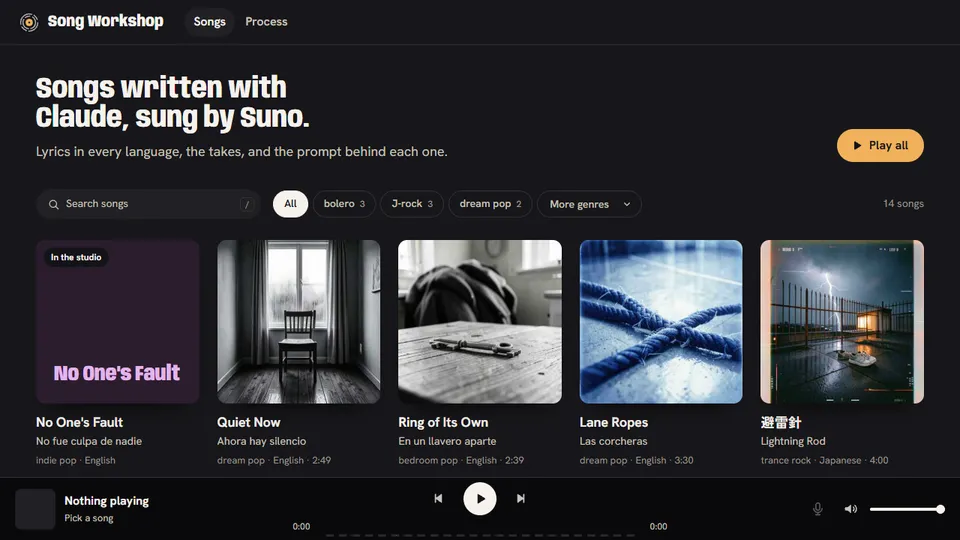
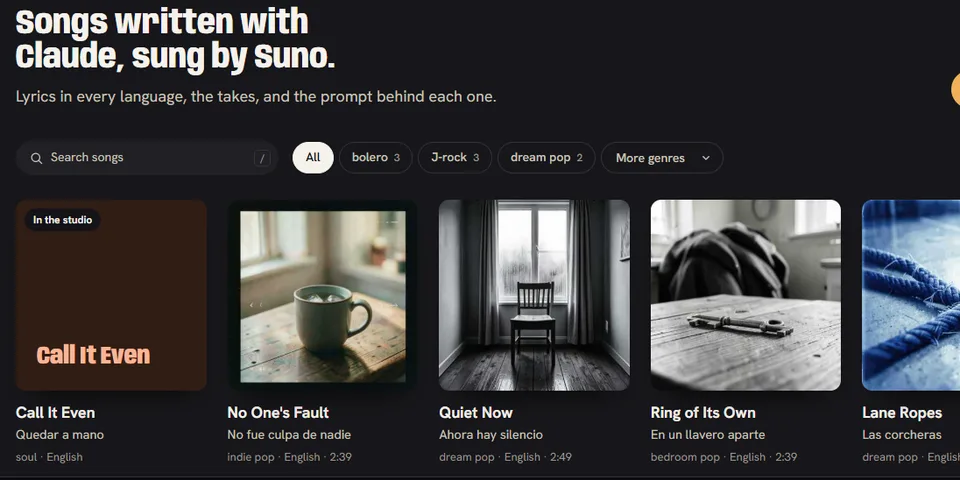
refactor(projects): calmer list view and a closed tag vocabulary
List rows drop the repeated badges and get a larger thumbnail, a bigger
title, two lines of description and a single meta line (year and stack).
Project tags are now technologies from src/utils/projectTags.ts, at most
five per project, enforced by a test (30 tags down to 17). Song Workshop
gets its new front page as the thumbnail.

diff --git a/src/components/react/ProjectRow.tsx b/src/components/react/ProjectRow.tsx
@@ -1,5 +1,5 @@
 import React from "react";
-import { getProjectLinks, PlayIcon, ProjectLinkButtons } from "./ProjectLinks";
+import { getProjectLinks, ProjectLinkButtons } from "./ProjectLinks";
 import type { ProjectCardLabels } from "./ProjectCard";
 
 interface ProjectRowProps {
@@ -10,14 +10,15 @@ interface ProjectRowProps {
     demo?: string;
     image?: string | { src: string; width: number; height: number };
     year?: number;
-    featured?: boolean;
     inProgress?: boolean;
     labels: ProjectCardLabels;
 }
 
-const MAX_TAGS = 3;
-
-/** Compact list row: built for scanning many projects at once. */
+/**
+ * List row: thumbnail, title, two lines of description and a quiet meta line.
+ * Badges are left to the gallery; here the buttons on the right already say
+ * whether there is a demo, so nothing is repeated.
+ */
 export const ProjectRow: React.FC<ProjectRowProps> = ({
     title,
     description,
@@ -26,13 +27,12 @@ export const ProjectRow: React.FC<ProjectRowProps> = ({
     demo,
     image,
     year,
-    featured,
     inProgress,
     labels,
 }) => {
     const links = inProgress ? [] : getProjectLinks(labels, link, demo);
     const primary = links[0]?.href;
-    const extraTags = tags.length - MAX_TAGS;
+    const meta = [year, ...tags].filter(Boolean).join("  ·  ");
 
     const handleRowClick = (e: React.MouseEvent<HTMLElement>) => {
         if (!primary) return;
@@ -44,85 +44,49 @@ export const ProjectRow: React.FC<ProjectRowProps> = ({
     return (
         <article
             onClick={handleRowClick}
-            className={`group grid grid-cols-[1fr_auto] lg:grid-cols-[6rem_minmax(0,1fr)_16rem_2.5rem_5.25rem] items-center gap-x-5 gap-y-3 px-4 py-4 lg:px-5 rounded-xl transition-colors duration-200 ${
-                primary ? "cursor-pointer hover:bg-white/[0.03]" : "opacity-70"
+            className={`group grid grid-cols-[minmax(0,1fr)_auto] sm:grid-cols-[auto_minmax(0,1fr)_auto] items-center gap-x-6 gap-y-3 p-4 sm:p-5 rounded-xl transition-colors duration-200 ${
+                primary ? "cursor-pointer hover:bg-white/[0.03]" : ""
             }`}
         >
             {/* Thumbnail */}
-            <div className="hidden lg:block w-24 h-14 rounded-lg overflow-hidden bg-charcoal border border-white/5">
+            <div className="hidden sm:block w-40 md:w-48 aspect-[2/1] rounded-lg overflow-hidden bg-charcoal border border-white/5">
                 {image && (
                     <img
                         src={typeof image === "string" ? image : image.src}
                         alt=""
-                        className="w-full h-full object-cover motion-safe:transition-transform motion-safe:duration-500 motion-safe:group-hover:scale-110"
+                        className={`w-full h-full object-cover motion-safe:transition-transform motion-safe:duration-500 motion-safe:group-hover:scale-105 ${inProgress ? "opacity-50" : ""}`}
                         loading="lazy"
                         decoding="async"
                     />
                 )}
             </div>
 
-            {/* Title + description */}
+            {/* Text */}
             <div className="min-w-0">
-                <div className="flex items-center gap-2 flex-wrap">
+                <div className="flex items-center gap-2.5 flex-wrap">
                     <h3
-                        className={`font-heading font-bold text-light text-base transition-colors ${primary ? "group-hover:text-moon" : ""}`}
+                        className={`font-heading font-bold text-lg transition-colors ${primary ? "text-light group-hover:text-moon" : "text-light/70"}`}
                     >
                         {title}
                     </h3>
-                    {featured && !inProgress && (
-                        <span
-                            className="w-1.5 h-1.5 rounded-full bg-moon shadow-[0_0_8px_var(--color-moon)]"
-                            title={labels.featured}
-                            aria-label={labels.featured}
-                            role="img"
-                        />
-                    )}
-                    {demo && !inProgress && (
-                        <span className="inline-flex items-center gap-1 px-1.5 py-0.5 rounded border border-moon/40 text-[9px] font-bold tracking-wider uppercase text-moon">
-                            <PlayIcon className="w-2 h-2" />
-                            {labels.liveBadge}
-                        </span>
-                    )}
                     {inProgress && (
-                        <span className="px-1.5 py-0.5 rounded border border-yellow-500/40 text-[9px] font-bold tracking-wider uppercase text-yellow-400">
+                        <span className="px-1.5 py-0.5 rounded border border-yellow-500/40 text-[10px] font-bold tracking-wider uppercase text-yellow-400">
                             {labels.inProgress}
                         </span>
                     )}
                 </div>
-                <p className="mt-1 text-sm text-gray-400 line-clamp-2 lg:line-clamp-1">
+                <p className="mt-1.5 text-[15px] leading-relaxed text-gray-400 line-clamp-2 max-w-3xl">
                     {description}
+                </p>
+                <p className="mt-2 text-xs text-gray-500 font-mono tracking-tight">
+                    {meta}
                 </p>
             </div>
 
-            {/* Links (top-right on mobile, last column on desktop) */}
-            <div className="row-start-1 col-start-2 lg:col-start-5 justify-self-end">
+            {/* Links */}
+            <div className="row-start-1 col-start-2 sm:col-start-3 self-start sm:self-center">
                 <ProjectLinkButtons items={links} />
             </div>
-
-            {/* Tags */}
-            <div className="col-span-2 lg:col-span-1 lg:col-start-3 lg:row-start-1 flex flex-wrap gap-1.5">
-                {tags.slice(0, MAX_TAGS).map((tag) => (
-                    <span
-                        key={tag}
-                        className="px-2 py-0.5 rounded bg-white/5 text-[11px] text-gray-400 border border-white/5"
-                    >
-                        {tag}
-                    </span>
-                ))}
-                {extraTags > 0 && (
-                    <span
-                        className="px-1.5 py-0.5 text-[11px] text-gray-500"
-                        title={tags.slice(MAX_TAGS).join(", ")}
-                    >
-                        +{extraTags}
-                    </span>
-                )}
-            </div>
-
-            {/* Year */}
-            <span className="hidden lg:block lg:col-start-4 lg:row-start-1 font-mono text-xs text-gray-500 tabular-nums">
-                {year}
-            </span>
         </article>
     );
 };

diff --git a/tests/project-tags.test.ts b/tests/project-tags.test.ts
@@ -1,0 +1,32 @@
+import { describe, it, expect } from "vitest";
+import { readdirSync, readFileSync } from "node:fs";
+import { join } from "node:path";
+import { PROJECT_TAGS, MAX_PROJECT_TAGS } from "../src/utils/projectTags";
+
+const DIR = join(__dirname, "../src/content/projects/en");
+
+const projects = readdirSync(DIR)
+    .filter((f) => f.endsWith(".md"))
+    .map((file) => {
+        const text = readFileSync(join(DIR, file), "utf-8");
+        const line = text.match(/^tags:\s*(\[.*\])\s*$/m);
+        return { file, tags: line ? (JSON.parse(line[1]) as string[]) : [] };
+    });
+
+describe("project tags", () => {
+    it.each(projects)("$file only uses the shared vocabulary", ({ tags }) => {
+        const allowed: readonly string[] = PROJECT_TAGS;
+        expect(tags.filter((t) => !allowed.includes(t))).toEqual([]);
+    });
+
+    it.each(projects)("$file has 1 to 5 tags, no repeats", ({ tags }) => {
+        expect(tags.length).toBeGreaterThan(0);
+        expect(tags.length).toBeLessThanOrEqual(MAX_PROJECT_TAGS);
+        expect(new Set(tags).size).toBe(tags.length);
+    });
+
+    it("every vocabulary tag is used by some project", () => {
+        const used = new Set(projects.flatMap((p) => p.tags));
+        expect(PROJECT_TAGS.filter((t) => !used.has(t))).toEqual([]);
+    });
+});

diff --git a/src/components/react/ProjectLinks.tsx b/src/components/react/ProjectLinks.tsx
@@ -86,7 +86,7 @@ export const LinkIcon: React.FC<{
 export const ProjectLinkButtons: React.FC<{ items: ProjectLinkItem[] }> = ({
     items,
 }) => (
-    <div className="flex items-center gap-1.5">
+    <div className="flex items-center gap-2">
         {items.map((item) => (
             <a
                 key={item.kind}
@@ -95,7 +95,7 @@ export const ProjectLinkButtons: React.FC<{ items: ProjectLinkItem[] }> = ({
                 rel="noopener noreferrer"
                 aria-label={item.label}
                 title={item.label}
-                className={`grid place-items-center w-9 h-9 rounded-full border transition-all duration-200 focus-visible:outline-2 focus-visible:outline-offset-2 focus-visible:outline-moon ${
+                className={`grid place-items-center w-10 h-10 rounded-full border transition-all duration-200 focus-visible:outline-2 focus-visible:outline-offset-2 focus-visible:outline-moon ${
                     item.kind === "demo"
                         ? "bg-moon text-gunmetal border-moon hover:shadow-[0_0_14px_color-mix(in_srgb,var(--color-moon)_50%,transparent)]"
                         : "border-white/10 text-gray-300 hover:text-moon hover:border-moon/50"

diff --git a/src/utils/projectTags.ts b/src/utils/projectTags.ts
@@ -1,0 +1,32 @@
+/**
+ * Closed vocabulary for project tags. Tags are technologies a recruiter would
+ * filter by, not topics: the description already covers the domain. Keep each
+ * project to the 2-5 that matter most, and add a new tag here only when a real
+ * project needs it (tests/project-tags.test.ts enforces this list).
+ */
+export const PROJECT_TAGS = [
+    // Languages and runtimes
+    "Java",
+    "Python",
+    "TypeScript",
+    "JavaScript",
+    "Node.js",
+    "PHP",
+    "SQL",
+    // Frameworks
+    "Spring Boot",
+    "Laravel",
+    "React",
+    "Astro",
+    "Tailwind CSS",
+    // Data, cloud and AI
+    "PostgreSQL",
+    "Pandas",
+    "Machine Learning",
+    "AWS",
+    "AI Agents",
+] as const;
+
+export type ProjectTag = (typeof PROJECT_TAGS)[number];
+
+export const MAX_PROJECT_TAGS = 5;

diff --git a/src/components/react/ProjectGrid.tsx b/src/components/react/ProjectGrid.tsx
@@ -447,7 +447,6 @@ export const ProjectGrid: React.FC<ProjectGridProps> = ({
                             demo={project.data.demo}
                             image={project.data.image}
                             year={project.data.year}
-                            featured={project.data.featured}
                             inProgress={project.data.inProgress}
                             labels={labels.card}
                         />

diff --git a/src/content/projects/en/song-workshop.md b/src/content/projects/en/song-workshop.md
@@ -1,7 +1,7 @@
 ---
 title: "Song Workshop"
 description: "Original songs written with Claude Code and sung by Suno, published with their lyrics in every language (Japanese with hiragana and romaji), Suno's takes, the exact prompt and the process behind each one. A four-phase workflow (discover, compose, generate, learn) driven by Claude Code commands, a Python audio analyzer with librosa and a static site generated from the song packages."
-tags: ["Claude Code", "AI Agents", "Python", "JavaScript"]
+tags: ["AI Agents", "Python", "JavaScript"]
 date: 2026-11-27
 featured: true
 link: "https://github.com/MeloDev2111/suno-songwriter"

diff --git a/src/content/projects/en/avatar-studio.md b/src/content/projects/en/avatar-studio.md
@@ -1,7 +1,7 @@
 ---
 title: "Avatar Studio"
 description: "Browser editor to dress up your profile picture with themed frames and stickers and export it ready for Discord. Everything runs client-side, so the photo never leaves the device. Each theme is a data folder validated by tests, so the community can add art without touching the editor. Built for Chamba Lab with React, TypeScript and Vite."
-tags: ["React", "TypeScript", "Vite", "Community"]
+tags: ["React", "TypeScript"]
 date: 2026-11-14
 featured: true
 link: "https://github.com/Chamba-Lab/avatar-studio"

diff --git a/src/content/projects/en/iterview-ai.md b/src/content/projects/en/iterview-ai.md
@@ -1,7 +1,7 @@
 ---
 title: "IterView AI"
 description: "AI companion that simulates real job interviews and generates strategic preparation materials: an adaptive Q&A loop, study guides and gap analysis against the job description. Local-first, with your own Gemini key. Built with Astro, Spring Boot, Spring AI and PostgreSQL."
-tags: ["Java", "Spring Boot", "Spring AI", "Astro", "React", "PostgreSQL"]
+tags: ["Java", "Spring Boot", "AI Agents", "React", "PostgreSQL"]
 date: 2026-03-06
 featured: true
 link: "https://github.com/MeloDev2111/IterView-AI"

diff --git a/src/content/projects/en/studyforge.md b/src/content/projects/en/studyforge.md
@@ -1,7 +1,7 @@
 ---
 title: "StudyForge"
 description: "Agent Skill and Claude Code plugin that forges hands-on study paths with any AI agent: a refined syllabus first, then short labs verified on pinned versions and an integrator project per block. Distilled from years of my own study labs and proven end to end with pytest-lab."
-tags: ["AI Agents", "Claude Code", "Python", "EdTech"]
+tags: ["AI Agents", "Python"]
 date: 2026-11-17
 featured: true
 link: "https://github.com/Chamba-Lab/studyforge"

diff --git a/src/content/projects/en/ibm-data-engineering.md b/src/content/projects/en/ibm-data-engineering.md
@@ -1,7 +1,7 @@
 ---
 title: "IBM Data Engineering Certificate"
 description: "Comprehensive collection of ETL pipelines, SQL database designs, and Big Data processing workflows developed during the IBM Data Engineering Professional Certificate. Demonstrates proficiency in Python, Pandas, and Data Warehousing concepts."
-tags: ["Python", "ETL", "SQL"]
+tags: ["Python", "SQL"]
 date: 2025-06-20
 featured: false
 link: "https://github.com/MeloStudy/IBM-Data-Engineering-Certification-Notebooks"

diff --git a/src/content/projects/en/ibm-data-science.md b/src/content/projects/en/ibm-data-science.md
@@ -1,7 +1,7 @@
 ---
 title: "IBM Data Science Certificate"
 description: "Data Science projects covering methodology, Python, SQL, and data visualization. Capstone project involves complex data analysis and predictive modeling."
-tags: ["Python", "Pandas", "SQL", "Data Visualization", "Machine Learning"]
+tags: ["Python", "Pandas", "SQL", "Machine Learning"]
 date: 2025-06-01
 featured: false
 link: "https://github.com/MeloStudy/IBM-Data-Science-Certification-Notebooks"

diff --git a/src/content/projects/en/cv-factory.md b/src/content/projects/en/cv-factory.md
@@ -1,7 +1,7 @@
 ---
 title: "CV Factory"
 description: "CLI that turns your career into structured data (JSON Resume) and renders tailored, ATS-friendly PDFs: one variant per role, English and Spanish, three templates and shareable copies without personal data. Built with TypeScript and Typst."
-tags: ["TypeScript", "Node.js", "CLI", "Typst"]
+tags: ["TypeScript", "Node.js"]
 date: 2026-10-19
 featured: true
 link: "https://github.com/MeloDev2111/cv-factory"
